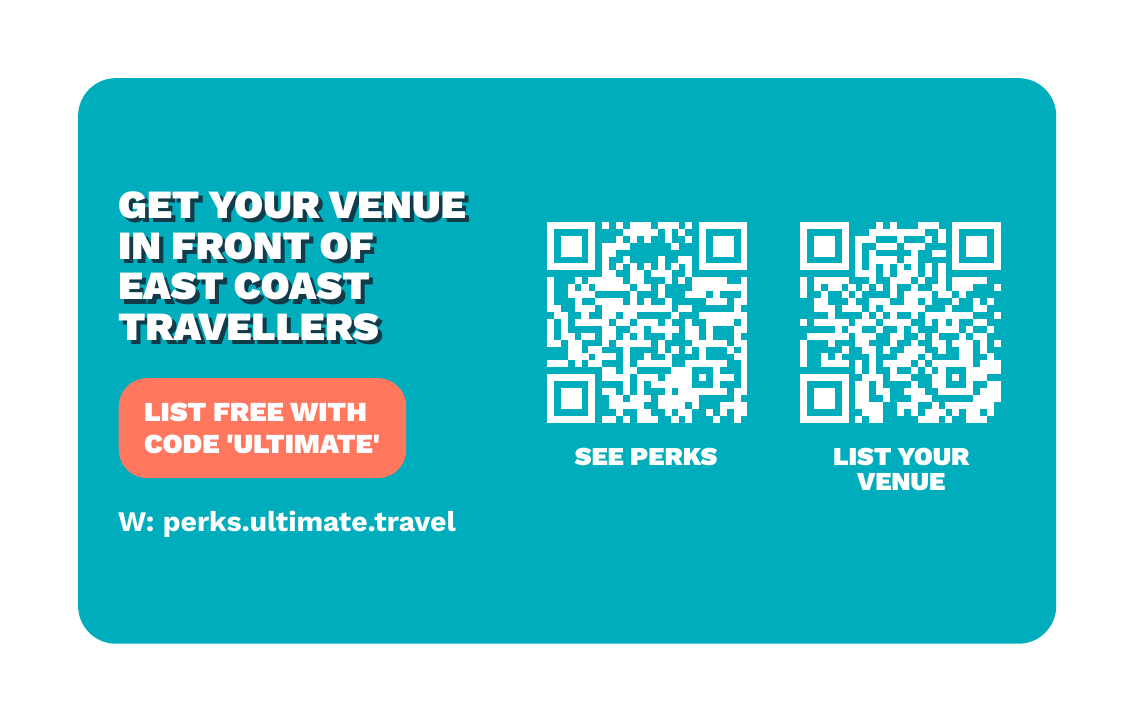
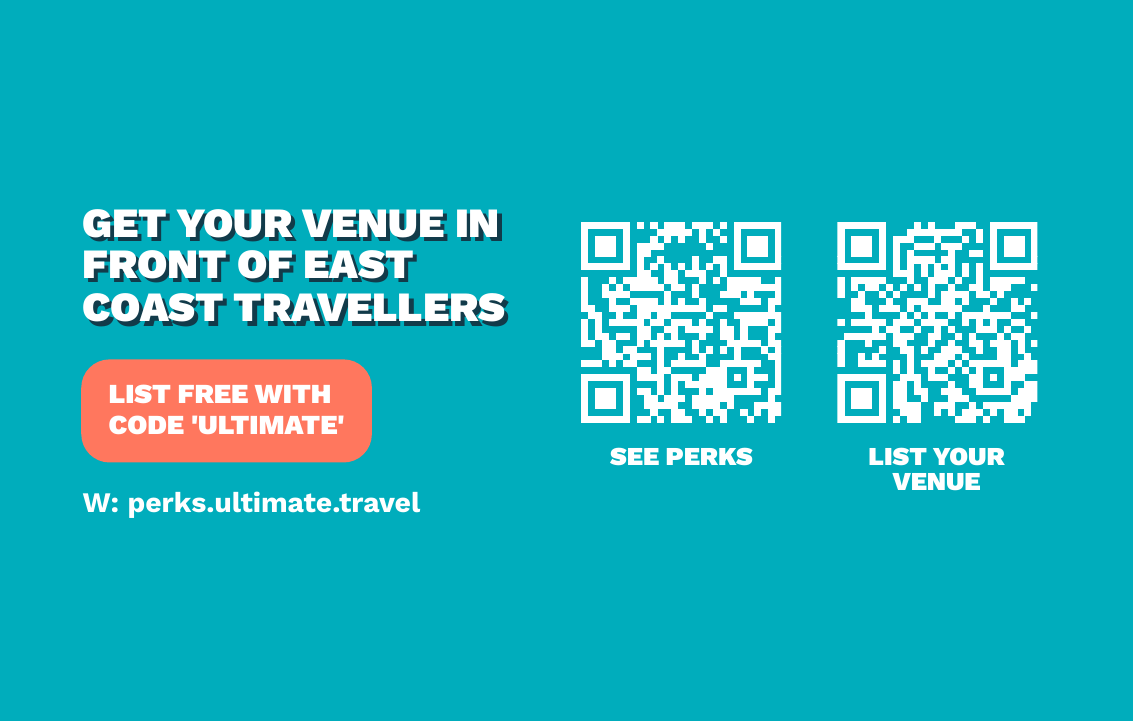
Business card back: no white border
Claude-Session: https://claude.ai/code/session_01BC81H4jyip2WtSh9eVVxw1

diff --git a/print/business-card/card.html b/print/business-card/card.html
@@ -22,11 +22,9 @@ html,body{font-family:'Work Sans',Arial,sans-serif;color:#fff;-webkit-print-colo
 .front .dots{position:absolute;right:-3mm;bottom:-3mm;width:30mm;height:30mm;border-radius:50%;background:#00ADBC}
 .front .dots b{position:absolute;left:8.5mm;top:9mm;font-weight:900;font-size:13pt;line-height:.95;text-transform:uppercase;text-align:left}
 /* // CSS NAME: card-back // */
-.back{background:#fff}
-.back .panel{position:absolute;left:6.5mm;top:6.5mm;right:6.5mm;bottom:6.5mm;background:#00ADBC;border-radius:3.2mm}
-.back .safe{left:10mm;top:10mm;right:10mm;bottom:10mm}
-.back .grid{position:absolute;inset:0;display:grid;grid-template-columns:31mm 1fr;gap:3mm;align-items:center}
-.back h2{font-weight:900;font-size:9.6pt;line-height:1.02;text-transform:uppercase;text-shadow:.35mm .35mm 0 #123B4A}
+.back{background:#00ADBC}
+.back .grid{position:absolute;inset:0;display:grid;grid-template-columns:38mm 1fr;gap:3mm;align-items:center}
+.back h2{font-weight:900;font-size:10pt;line-height:1.02;text-transform:uppercase;text-shadow:.35mm .35mm 0 #123B4A}
 .back .pill{display:inline-block;margin-top:2.6mm;background:#FF775E;color:#fff;font-weight:900;font-size:6.6pt;line-height:1.15;border-radius:2.4mm;padding:1.6mm 2.2mm;text-transform:uppercase}
 .back .url{margin-top:2.2mm;font-weight:700;font-size:6.8pt}
 .back .qrs{display:flex;gap:2.2mm;justify-content:flex-end}
@@ -45,7 +43,7 @@ html,body{font-family:'Work Sans',Arial,sans-serif;color:#fff;-webkit-print-colo
   <div class="name"></div>
   <div class="contact">E: perks@ultimate.travel<br>W: perks.ultimate.travel</div>
 </div></div>
-<div class="pg back"><div class="panel"></div><div class="safe"><div class="grid">
+<div class="pg back"><div class="safe"><div class="grid">
   <div><h2>Get your venue in front of East Coast travellers</h2><span class="pill">List free with<br>code 'ULTIMATE'</span><div class="url">W: perks.ultimate.travel</div></div>
   <div class="qrs"><div class="tile"><svg viewBox="0 0 29 29" shape-rendering="crispEdges"><g fill="#FFFFFF"><rect x="0" y="0" width="1.02" height="1.02"/><rect x="1" y="0" width="1.02" height="1.02"/><rect x="2" y="0" width="1.02" height="1.02"/><rect x="3" y="0" width="1.02" height="1.02"/><rect x="4" y="0" width="1.02" height="1.02"/><rect x="5" y="0" width="1.02" height="1.02"/><rect x="6" y="0" width="1.02" height="1.02"/><rect x="8" y="0" width="1.02" height="1.02"/><rect x="10" y="0" width="1.02" height="1.02"/><rect x="12" y="0" width="1.02" height="1.02"/><rect x="13" y="0" width="1.02" height="1.02"/><rect x="14" y="0" width="1.02" height="1.02"/><rect x="16" y="0" width="1.02" height="1.02"/><rect x="17" y="0" width="1.02" height="1.02"/><rect x="18" y="0" width="1.02" height="1.02"/><rect x="20" y="0" width="1.02" height="1.02"/><rect x="22" y="0" width="1.02" height="1.02"/><rect x="23" y="0" width="1.02" height="1.02"/><rect x="24" y="0" width="1.02" height="1.02"/><rect x="25" y="0" width="1.02" height="1.02"/><rect x="26" y="0" width="1.02" height="1.02"/><rect x="27" y="0" width="1.02" height="1.02"/><rect x="28" y="0" width="1.02" height="1.02"/><rect x="0" y="1" width="1.02" height="1.02"/><rect x="6" y="1" width="1.02" height="1.02"/><rect x="11" y="1" width="1.02" height="1.02"/><rect x="12" y="1" width="1.02" height="1.02"/><rect x="13" y="1" width="1.02" height="1.02"/><rect x="14" y="1" width="1.02" height="1.02"/><rect x="15" y="1" width="1.02" height="1.02"/><rect x="17" y="1" width="1.02" height="1.02"/><rect x="19" y="1" width="1.02" height="1.02"/><rect x="22" y="1" width="1.02" height="1.02"/><rect x="28" y="1" width="1.02" height="1.02"/><rect x="0" y="2" width="1.02" height="1.02"/><rect x="2" y="2" width="1.02" height="1.02"/><rect x="3" y="2" width="1.02" height="1.02"/><rect x="4" y="2" width="1.02" height="1.02"/><rect x="6" y="2" width="1.02" height="1.02"/><rect x="10" y="2" width="1.02" height="1.02"/><rect x="12" y="2" width="1.02" height="1.02"/><rect x="14" y="2" width="1.02" height="1.02"/><rect x="17" y="2" width="1.02" height="1.02"/><rect x="20" y="2" width="1.02" height="1.02"/><rect x="22" y="2" width="1.02" height="1.02"/><rect x="24" y="2" width="1.02" height="1.02"/><rect x="25" y="2" width="1.02" height="1.02"/><rect x="26" y="2" width="1.02" height="1.02"/><rect x="28" y="2" width="1.02" height="1.02"/><rect x="0" y="3" width="1.02" height="1.02"/><rect x="2" y="3" width="1.02" height="1.02"/><rect x="3" y="3" width="1.02" height="1.02"/><rect x="4" y="3" width="1.02" height="1.02"/><rect x="6" y="3" width="1.02" height="1.02"/><rect x="8" y="3" width="1.02" height="1.02"/><rect x="9" y="3" width="1.02" height="1.02"/><rect x="10" y="3" width="1.02" height="1.02"/><rect x="11" y="3" width="1.02" height="1.02"/><rect x="18" y="3" width="1.02" height="1.02"/><rect x="22" y="3" width="1.02" height="1.02"/><rect x="24" y="3" width="1.02" height="1.02"/><rect x="25" y="3" width="1.02" height="1.02"/><rect x="26" y="3" width="1.02" height="1.02"/><rect x="28" y="3" width="1.02" height="1.02"/><rect x="0" y="4" width="1.02" height="1.02"/><rect x="2" y="4" width="1.02" height="1.02"/><rect x="3" y="4" width="1.02" height="1.02"/><rect x="4" y="4" width="1.02" height="1.02"/><rect x="6" y="4" width="1.02" height="1.02"/><rect x="8" y="4" width="1.02" height="1.02"/><rect x="9" y="4" width="1.02" height="1.02"/><rect x="22" y="4" width="1.02" height="1.02"/><rect x="24" y="4" width="1.02" height="1.02"/><rect x="25" y="4" width="1.02" height="1.02"/><rect x="26" y="4" width="1.02" height="1.02"/><rect x="28" y="4" width="1.02" height="1.02"/><rect x="0" y="5" width="1.02" height="1.02"/><rect x="6" y="5" width="1.02" height="1.02"/><rect x="8" y="5" width="1.02" height="1.02"/><rect x="11" y="5" width="1.02" height="1.02"/><rect x="16" y="5" width="1.02" height="1.02"/><rect x="19" y="5" width="1.02" height="1.02"/><rect x="20" y="5" width="1.02" height="1.02"/><rect x="22" y="5" width="1.02" height="1.02"/><rect x="28" y="5" width="1.02" height="1.02"/><rect x="0" y="6" width="1.02" height="1.02"/><rect x="1" y="6" width="1.02" height="1.02"/><rect x="2" y="6" width="1.02" height="1.02"/><rect x="3" y="6" width="1.02" height="1.02"/><rect x="4" y="6" width="1.02" height="1.02"/><rect x="5" y="6" width="1.02" height="1.02"/><rect x="6" y="6" width="1.02" height="1.02"/><rect x="8" y="6" width="1.02" height="1.02"/><rect x="10" y="6" width="1.02" height="1.02"/><rect x="12" y="6" width="1.02" height="1.02"/><rect x="14" y="6" width="1.02" height="1.02"/><rect x="16" y="6" width="1.02" height="1.02"/><rect x="18" y="6" width="1.02" height="1.02"/><rect x="20" y="6" width="1.02" height="1.02"/><rect x="22" y="6" width="1.02" height="1.02"/><rect x="23" y="6" width="1.02" height="1.02"/><rect x="24" y="6" width="1.02" height="1.02"/><rect x="25" y="6" width="1.02" height="1.02"/><rect x="26" y="6" width="1.02" height="1.02"/><rect x="27" y="6" width="1.02" height="1.02"/><rect x="28" y="6" width="1.02" height="1.02"/><rect x="8" y="7" width="1.02" height="1.02"/><rect x="9" y="7" width="1.02" height="1.02"/><rect x="12" y="7" width="1.02" height="1.02"/><rect x="13" y="7" width="1.02" height="1.02"/><rect x="15" y="7" width="1.02" height="1.02"/><rect x="16" y="7" width="1.02" height="1.02"/><rect x="17" y="7" width="1.02" height="1.02"/><rect x="20" y="7" width="1.02" height="1.02"/><rect x="0" y="8" width="1.02" height="1.02"/><rect x="4" y="8" width="1.02" height="1.02"/><rect x="6" y="8" width="1.02" height="1.02"/><rect x="7" y="8" width="1.02" height="1.02"/><rect x="8" y="8" width="1.02" height="1.02"/><rect x="9" y="8" width="1.02" height="1.02"/><rect x="10" y="8" width="1.02" height="1.02"/><rect x="12" y="8" width="1.02" height="1.02"/><rect x="13" y="8" width="1.02" height="1.02"/><rect x="17" y="8" width="1.02" height="1.02"/><rect x="19" y="8" width="1.02" height="1.02"/><rect x="21" y="8" width="1.02" height="1.02"/><rect x="22" y="8" width="1.02" height="1.02"/><rect x="23" y="8" width="1.02" height="1.02"/><rect x="24" y="8" width="1.02" height="1.02"/><rect x="25" y="8" width="1.02" height="1.02"/><rect x="28" y="8" width="1.02" height="1.02"/><rect x="0" y="9" width="1.02" height="1.02"/><rect x="3" y="9" width="1.02" height="1.02"/><rect x="5" y="9" width="1.02" height="1.02"/><rect x="7" y="9" width="1.02" height="1.02"/><rect x="8" y="9" width="1.02" height="1.02"/><rect x="9" y="9" width="1.02" height="1.02"/><rect x="10" y="9" width="1.02" height="1.02"/><rect x="11" y="9" width="1.02" height="1.02"/><rect x="13" y="9" width="1.02" height="1.02"/><rect x="14" y="9" width="1.02" height="1.02"/><rect x="16" y="9" width="1.02" height="1.02"/><rect x="21" y="9" width="1.02" height="1.02"/><rect x="22" y="9" width="1.02" height="1.02"/><rect x="23" y="9" width="1.02" height="1.02"/><rect x="24" y="9" width="1.02" height="1.02"/><rect x="25" y="9" width="1.02" height="1.02"/><rect x="26" y="9" width="1.02" height="1.02"/><rect x="27" y="9" width="1.02" height="1.02"/><rect x="28" y="9" width="1.02" height="1.02"/><rect x="0" y="10" width="1.02" height="1.02"/><rect x="3" y="10" width="1.02" height="1.02"/><rect x="4" y="10" width="1.02" height="1.02"/><rect x="5" y="10" width="1.02" height="1.02"/><rect x="6" y="10" width="1.02" height="1.02"/><rect x="12" y="10" width="1.02" height="1.02"/><rect x="16" y="10" width="1.02" height="1.02"/><rect x="20" y="10" width="1.02" height="1.02"/><rect x="21" y="10" width="1.02" height="1.02"/><rect x="22" y="10" width="1.02" height="1.02"/><rect x="24" y="10" width="1.02" height="1.02"/><rect x="28" y="10" width="1.02" height="1.02"/><rect x="0" y="11" width="1.02" height="1.02"/><rect x="4" y="11" width="1.02" height="1.02"/><rect x="7" y="11" width="1.02" height="1.02"/><rect x="8" y="11" width="1.02" height="1.02"/><rect x="9" y="11" width="1.02" height="1.02"/><rect x="10" y="11" width="1.02" height="1.02"/><rect x="12" y="11" width="1.02" height="1.02"/><rect x="14" y="11" width="1.02" height="1.02"/><rect x="17" y="11" width="1.02" height="1.02"/><rect x="23" y="11" width="1.02" height="1.02"/><rect x="24" y="11" width="1.02" height="1.02"/><rect x="25" y="11" width="1.02" height="1.02"/><rect x="27" y="11" width="1.02" height="1.02"/><rect x="28" y="11" width="1.02" height="1.02"/><rect x="0" y="12" width="1.02" height="1.02"/><rect x="1" y="12" width="1.02" height="1.02"/><rect x="4" y="12" width="1.02" height="1.02"/><rect x="5" y="12" width="1.02" height="1.02"/><rect x="6" y="12" width="1.02" height="1.02"/><rect x="8" y="12" width="1.02" height="1.02"/><rect x="9" y="12" width="1.02" height="1.02"/><rect x="10" y="12" width="1.02" height="1.02"/><rect x="11" y="12" width="1.02" height="1.02"/><rect x="12" y="12" width="1.02" height="1.02"/><rect x="13" y="12" width="1.02" height="1.02"/><rect x="14" y="12" width="1.02" height="1.02"/><rect x="15" y="12" width="1.02" height="1.02"/><rect x="16" y="12" width="1.02" height="1.02"/><rect x="17" y="12" width="1.02" height="1.02"/><rect x="19" y="12" width="1.02" height="1.02"/><rect x="20" y="12" width="1.02" height="1.02"/><rect x="27" y="12" width="1.02" height="1.02"/><rect x="1" y="13" width="1.02" height="1.02"/><rect x="2" y="13" width="1.02" height="1.02"/><rect x="5" y="13" width="1.02" height="1.02"/><rect x="8" y="13" width="1.02" height="1.02"/><rect x="9" y="13" width="1.02" height="1.02"/><rect x="11" y="13" width="1.02" height="1.02"/><rect x="12" y="13" width="1.02" height="1.02"/><rect x="18" y="13" width="1.02" height="1.02"/><rect x="22" y="13" width="1.02" height="1.02"/><rect x="23" y="13" width="1.02" height="1.02"/><rect x="24" y="13" width="1.02" height="1.02"/><rect x="25" y="13" width="1.02" height="1.02"/><rect x="26" y="13" width="1.02" height="1.02"/><rect x="27" y="13" width="1.02" height="1.02"/><rect x="28" y="13" width="1.02" height="1.02"/><rect x="0" y="14" width="1.02" height="1.02"/><rect x="2" y="14" width="1.02" height="1.02"/><rect x="4" y="14" width="1.02" height="1.02"/><rect x="5" y="14" width="1.02" height="1.02"/><rect x="6" y="14" width="1.02" height="1.02"/><rect x="7" y="14" width="1.02" height="1.02"/><rect x="8" y="14" width="1.02" height="1.02"/><rect x="10" y="14" width="1.02" height="1.02"/><rect x="11" y="14" width="1.02" height="1.02"/><rect x="13" y="14" width="1.02" height="1.02"/><rect x="14" y="14" width="1.02" height="1.02"/><rect x="15" y="14" width="1.02" height="1.02"/><rect x="17" y="14" width="1.02" height="1.02"/><rect x="20" y="14" width="1.02" height="1.02"/><rect x="23" y="14" width="1.02" height="1.02"/><rect x="24" y="14" width="1.02" height="1.02"/><rect x="25" y="14" width="1.02" height="1.02"/><rect x="26" y="14" width="1.02" height="1.02"/><rect x="28" y="14" width="1.02" height="1.02"/><rect x="0" y="15" width="1.02" height="1.02"/><rect x="2" y="15" width="1.02" height="1.02"/><rect x="8" y="15" width="1.02" height="1.02"/><rect x="9" y="15" width="1.02" height="1.02"/><rect x="12" y="15" width="1.02" height="1.02"/><rect x="13" y="15" width="1.02" height="1.02"/><rect x="15" y="15" width="1.02" height="1.02"/><rect x="16" y="15" width="1.02" height="1.02"/><rect x="17" y="15" width="1.02" height="1.02"/><rect x="18" y="15" width="1.02" height="1.02"/><rect x="20" y="15" width="1.02" height="1.02"/><rect x="21" y="15" width="1.02" height="1.02"/><rect x="23" y="15" width="1.02" height="1.02"/><rect x="27" y="15" width="1.02" height="1.02"/><rect x="28" y="15" width="1.02" height="1.02"/><rect x="0" y="16" width="1.02" height="1.02"/><rect x="2" y="16" width="1.02" height="1.02"/><rect x="3" y="16" width="1.02" height="1.02"/><rect x="5" y="16" width="1.02" height="1.02"/><rect x="6" y="16" width="1.02" height="1.02"/><rect x="8" y="16" width="1.02" height="1.02"/><rect x="9" y="16" width="1.02" height="1.02"/><rect x="11" y="16" width="1.02" height="1.02"/><rect x="13" y="16" width="1.02" height="1.02"/><rect x="17" y="16" width="1.02" height="1.02"/><rect x="20" y="16" width="1.02" height="1.02"/><rect x="21" y="16" width="1.02" height="1.02"/><rect x="23" y="16" width="1.02" height="1.02"/><rect x="27" y="16" width="1.02" height="1.02"/><rect x="0" y="17" width="1.02" height="1.02"/><rect x="1" y="17" width="1.02" height="1.02"/><rect x="3" y="17" width="1.02" height="1.02"/><rect x="4" y="17" width="1.02" height="1.02"/><rect x="8" y="17" width="1.02" height="1.02"/><rect x="10" y="17" width="1.02" height="1.02"/><rect x="11" y="17" width="1.02" height="1.02"/><rect x="12" y="17" width="1.02" height="1.02"/><rect x="13" y="17" width="1.02" height="1.02"/><rect x="14" y="17" width="1.02" height="1.02"/><rect x="16" y="17" width="1.02" height="1.02"/><rect x="21" y="17" width="1.02" height="1.02"/><rect x="22" y="17" width="1.02" height="1.02"/><rect x="23" y="17" width="1.02" height="1.02"/><rect x="24" y="17" width="1.02" height="1.02"/><rect x="25" y="17" width="1.02" height="1.02"/><rect x="27" y="17" width="1.02" height="1.02"/><rect x="28" y="17" width="1.02" height="1.02"/><rect x="3" y="18" width="1.02" height="1.02"/><rect x="4" y="18" width="1.02" height="1.02"/><rect x="6" y="18" width="1.02" height="1.02"/><rect x="7" y="18" width="1.02" height="1.02"/><rect x="11" y="18" width="1.02" height="1.02"/><rect x="16" y="18" width="1.02" height="1.02"/><rect x="18" y="18" width="1.02" height="1.02"/><rect x="20" y="18" width="1.02" height="1.02"/><rect x="22" y="18" width="1.02" height="1.02"/><rect x="26" y="18" width="1.02" height="1.02"/><rect x="28" y="18" width="1.02" height="1.02"/><rect x="3" y="19" width="1.02" height="1.02"/><rect x="4" y="19" width="1.02" height="1.02"/><rect x="5" y="19" width="1.02" height="1.02"/><rect x="7" y="19" width="1.02" height="1.02"/><rect x="8" y="19" width="1.02" height="1.02"/><rect x="9" y="19" width="1.02" height="1.02"/><rect x="11" y="19" width="1.02" height="1.02"/><rect x="14" y="19" width="1.02" height="1.02"/><rect x="17" y="19" width="1.02" height="1.02"/><rect x="22" y="19" width="1.02" height="1.02"/><rect x="27" y="19" width="1.02" height="1.02"/><rect x="28" y="19" width="1.02" height="1.02"/><rect x="0" y="20" width="1.02" height="1.02"/><rect x="1" y="20" width="1.02" height="1.02"/><rect x="2" y="20" width="1.02" height="1.02"/><rect x="4" y="20" width="1.02" height="1.02"/><rect x="6" y="20" width="1.02" height="1.02"/><rect x="7" y="20" width="1.02" height="1.02"/><rect x="11" y="20" width="1.02" height="1.02"/><rect x="13" y="20" width="1.02" height="1.02"/><rect x="14" y="20" width="1.02" height="1.02"/><rect x="15" y="20" width="1.02" height="1.02"/><rect x="16" y="20" width="1.02" height="1.02"/><rect x="17" y="20" width="1.02" height="1.02"/><rect x="20" y="20" width="1.02" height="1.02"/><rect x="21" y="20" width="1.02" height="1.02"/><rect x="22" y="20" width="1.02" height="1.02"/><rect x="23" y="20" width="1.02" height="1.02"/><rect x="24" y="20" width="1.02" height="1.02"/><rect x="25" y="20" width="1.02" height="1.02"/><rect x="28" y="20" width="1.02" height="1.02"/><rect x="8" y="21" width="1.02" height="1.02"/><rect x="9" y="21" width="1.02" height="1.02"/><rect x="11" y="21" width="1.02" height="1.02"/><rect x="12" y="21" width="1.02" height="1.02"/><rect x="18" y="21" width="1.02" height="1.02"/><rect x="19" y="21" width="1.02" height="1.02"/><rect x="20" y="21" width="1.02" height="1.02"/><rect x="24" y="21" width="1.02" height="1.02"/><rect x="28" y="21" width="1.02" height="1.02"/><rect x="0" y="22" width="1.02" height="1.02"/><rect x="1" y="22" width="1.02" height="1.02"/><rect x="2" y="22" width="1.02" height="1.02"/><rect x="3" y="22" width="1.02" height="1.02"/><rect x="4" y="22" width="1.02" height="1.02"/><rect x="5" y="22" width="1.02" height="1.02"/><rect x="6" y="22" width="1.02" height="1.02"/><rect x="8" y="22" width="1.02" height="1.02"/><rect x="9" y="22" width="1.02" height="1.02"/><rect x="10" y="22" width="1.02" height="1.02"/><rect x="11" y="22" width="1.02" height="1.02"/><rect x="13" y="22" width="1.02" height="1.02"/><rect x="14" y="22" width="1.02" height="1.02"/><rect x="15" y="22" width="1.02" height="1.02"/><rect x="17" y="22" width="1.02" height="1.02"/><rect x="18" y="22" width="1.02" height="1.02"/><rect x="19" y="22" width="1.02" height="1.02"/><rect x="20" y="22" width="1.02" height="1.02"/><rect x="22" y="22" width="1.02" height="1.02"/><rect x="24" y="22" width="1.02" height="1.02"/><rect x="25" y="22" width="1.02" height="1.02"/><rect x="26" y="22" width="1.02" height="1.02"/><rect x="28" y="22" width="1.02" height="1.02"/><rect x="0" y="23" width="1.02" height="1.02"/><rect x="6" y="23" width="1.02" height="1.02"/><rect x="11" y="23" width="1.02" height="1.02"/><rect x="13" y="23" width="1.02" height="1.02"/><rect x="15" y="23" width="1.02" height="1.02"/><rect x="16" y="23" width="1.02" height="1.02"/><rect x="17" y="23" width="1.02" height="1.02"/><rect x="18" y="23" width="1.02" height="1.02"/><rect x="19" y="23" width="1.02" height="1.02"/><rect x="20" y="23" width="1.02" height="1.02"/><rect x="24" y="23" width="1.02" height="1.02"/><rect x="28" y="23" width="1.02" height="1.02"/><rect x="0" y="24" width="1.02" height="1.02"/><rect x="2" y="24" width="1.02" height="1.02"/><rect x="3" y="24" width="1.02" height="1.02"/><rect x="4" y="24" width="1.02" height="1.02"/><rect x="6" y="24" width="1.02" height="1.02"/><rect x="8" y="24" width="1.02" height="1.02"/><rect x="9" y="24" width="1.02" height="1.02"/><rect x="11" y="24" width="1.02" height="1.02"/><rect x="13" y="24" width="1.02" height="1.02"/><rect x="17" y="24" width="1.02" height="1.02"/><rect x="19" y="24" width="1.02" height="1.02"/><rect x="20" y="24" width="1.02" height="1.02"/><rect x="21" y="24" width="1.02" height="1.02"/><rect x="22" y="24" width="1.02" height="1.02"/><rect x="23" y="24" width="1.02" height="1.02"/><rect x="24" y="24" width="1.02" height="1.02"/><rect x="25" y="24" width="1.02" height="1.02"/><rect x="27" y="24" width="1.02" height="1.02"/><rect x="28" y="24" width="1.02" height="1.02"/><rect x="0" y="25" width="1.02" height="1.02"/><rect x="2" y="25" width="1.02" height="1.02"/><rect x="3" y="25" width="1.02" height="1.02"/><rect x="4" y="25" width="1.02" height="1.02"/><rect x="6" y="25" width="1.02" height="1.02"/><rect x="9" y="25" width="1.02" height="1.02"/><rect x="10" y="25" width="1.02" height="1.02"/><rect x="12" y="25" width="1.02" height="1.02"/><rect x="13" y="25" width="1.02" height="1.02"/><rect x="14" y="25" width="1.02" height="1.02"/><rect x="16" y="25" width="1.02" height="1.02"/><rect x="17" y="25" width="1.02" height="1.02"/><rect x="18" y="25" width="1.02" height="1.02"/><rect x="19" y="25" width="1.02" height="1.02"/><rect x="20" y="25" width="1.02" height="1.02"/><rect x="21" y="25" width="1.02" height="1.02"/><rect x="27" y="25" width="1.02" height="1.02"/><rect x="0" y="26" width="1.02" height="1.02"/><rect x="2" y="26" width="1.02" height="1.02"/><rect x="3" y="26" width="1.02" height="1.02"/><rect x="4" y="26" width="1.02" height="1.02"/><rect x="6" y="26" width="1.02" height="1.02"/><rect x="9" y="26" width="1.02" height="1.02"/><rect x="10" y="26" width="1.02" height="1.02"/><rect x="11" y="26" width="1.02" height="1.02"/><rect x="12" y="26" width="1.02" height="1.02"/><rect x="13" y="26" width="1.02" height="1.02"/><rect x="16" y="26" width="1.02" height="1.02"/><rect x="17" y="26" width="1.02" height="1.02"/><rect x="18" y="26" width="1.02" height="1.02"/><rect x="19" y="26" width="1.02" height="1.02"/><rect x="21" y="26" width="1.02" height="1.02"/><rect x="25" y="26" width="1.02" height="1.02"/><rect x="26" y="26" width="1.02" height="1.02"/><rect x="27" y="26" width="1.02" height="1.02"/><rect x="28" y="26" width="1.02" height="1.02"/><rect x="0" y="27" width="1.02" height="1.02"/><rect x="6" y="27" width="1.02" height="1.02"/><rect x="10" y="27" width="1.02" height="1.02"/><rect x="13" y="27" width="1.02" height="1.02"/><rect x="14" y="27" width="1.02" height="1.02"/><rect x="17" y="27" width="1.02" height="1.02"/><rect x="19" y="27" width="1.02" height="1.02"/><rect x="20" y="27" width="1.02" height="1.02"/><rect x="23" y="27" width="1.02" height="1.02"/><rect x="25" y="27" width="1.02" height="1.02"/><rect x="27" y="27" width="1.02" height="1.02"/><rect x="28" y="27" width="1.02" height="1.02"/><rect x="0" y="28" width="1.02" height="1.02"/><rect x="1" y="28" width="1.02" height="1.02"/><rect x="2" y="28" width="1.02" height="1.02"/><rect x="3" y="28" width="1.02" height="1.02"/><rect x="4" y="28" width="1.02" height="1.02"/><rect x="5" y="28" width="1.02" height="1.02"/><rect x="6" y="28" width="1.02" height="1.02"/><rect x="8" y="28" width="1.02" height="1.02"/><rect x="9" y="28" width="1.02" height="1.02"/><rect x="11" y="28" width="1.02" height="1.02"/><rect x="13" y="28" width="1.02" height="1.02"/><rect x="14" y="28" width="1.02" height="1.02"/><rect x="15" y="28" width="1.02" height="1.02"/><rect x="18" y="28" width="1.02" height="1.02"/><rect x="20" y="28" width="1.02" height="1.02"/><rect x="24" y="28" width="1.02" height="1.02"/><rect x="27" y="28" width="1.02" height="1.02"/></g></svg><b>See perks</b></div><div class="tile"><svg viewBox="0 0 29 29" shape-rendering="crispEdges"><g fill="#FFFFFF"><rect x="0" y="0" width="1.02" height="1.02"/><rect x="1" y="0" width="1.02" height="1.02"/><rect x="2" y="0" width="1.02" height="1.02"/><rect x="3" y="0" width="1.02" height="1.02"/><rect x="4" y="0" width="1.02" height="1.02"/><rect x="5" y="0" width="1.02" height="1.02"/><rect x="6" y="0" width="1.02" height="1.02"/><rect x="11" y="0" width="1.02" height="1.02"/><rect x="13" y="0" width="1.02" height="1.02"/><rect x="17" y="0" width="1.02" height="1.02"/><rect x="18" y="0" width="1.02" height="1.02"/><rect x="19" y="0" width="1.02" height="1.02"/><rect x="22" y="0" width="1.02" height="1.02"/><rect x="23" y="0" width="1.02" height="1.02"/><rect x="24" y="0" width="1.02" height="1.02"/><rect x="25" y="0" width="1.02" height="1.02"/><rect x="26" y="0" width="1.02" height="1.02"/><rect x="27" y="0" width="1.02" height="1.02"/><rect x="28" y="0" width="1.02" height="1.02"/><rect x="0" y="1" width="1.02" height="1.02"/><rect x="6" y="1" width="1.02" height="1.02"/><rect x="10" y="1" width="1.02" height="1.02"/><rect x="11" y="1" width="1.02" height="1.02"/><rect x="12" y="1" width="1.02" height="1.02"/><rect x="13" y="1" width="1.02" height="1.02"/><rect x="14" y="1" width="1.02" height="1.02"/><rect x="15" y="1" width="1.02" height="1.02"/><rect x="16" y="1" width="1.02" height="1.02"/><rect x="17" y="1" width="1.02" height="1.02"/><rect x="20" y="1" width="1.02" height="1.02"/><rect x="22" y="1" width="1.02" height="1.02"/><rect x="28" y="1" width="1.02" height="1.02"/><rect x="0" y="2" width="1.02" height="1.02"/><rect x="2" y="2" width="1.02" height="1.02"/><rect x="3" y="2" width="1.02" height="1.02"/><rect x="4" y="2" width="1.02" height="1.02"/><rect x="6" y="2" width="1.02" height="1.02"/><rect x="8" y="2" width="1.02" height="1.02"/><rect x="9" y="2" width="1.02" height="1.02"/><rect x="10" y="2" width="1.02" height="1.02"/><rect x="14" y="2" width="1.02" height="1.02"/><rect x="18" y="2" width="1.02" height="1.02"/><rect x="20" y="2" width="1.02" height="1.02"/><rect x="22" y="2" width="1.02" height="1.02"/><rect x="24" y="2" width="1.02" height="1.02"/><rect x="25" y="2" width="1.02" height="1.02"/><rect x="26" y="2" width="1.02" height="1.02"/><rect x="28" y="2" width="1.02" height="1.02"/><rect x="0" y="3" width="1.02" height="1.02"/><rect x="2" y="3" width="1.02" height="1.02"/><rect x="3" y="3" width="1.02" height="1.02"/><rect x="4" y="3" width="1.02" height="1.02"/><rect x="6" y="3" width="1.02" height="1.02"/><rect x="8" y="3" width="1.02" height="1.02"/><rect x="11" y="3" width="1.02" height="1.02"/><rect x="12" y="3" width="1.02" height="1.02"/><rect x="13" y="3" width="1.02" height="1.02"/><rect x="15" y="3" width="1.02" height="1.02"/><rect x="16" y="3" width="1.02" height="1.02"/><rect x="17" y="3" width="1.02" height="1.02"/><rect x="22" y="3" width="1.02" height="1.02"/><rect x="24" y="3" width="1.02" height="1.02"/><rect x="25" y="3" width="1.02" height="1.02"/><rect x="26" y="3" width="1.02" height="1.02"/><rect x="28" y="3" width="1.02" height="1.02"/><rect x="0" y="4" width="1.02" height="1.02"/><rect x="2" y="4" width="1.02" height="1.02"/><rect x="3" y="4" width="1.02" height="1.02"/><rect x="4" y="4" width="1.02" height="1.02"/><rect x="6" y="4" width="1.02" height="1.02"/><rect x="8" y="4" width="1.02" height="1.02"/><rect x="10" y="4" width="1.02" height="1.02"/><rect x="16" y="4" width="1.02" height="1.02"/><rect x="19" y="4" width="1.02" height="1.02"/><rect x="20" y="4" width="1.02" height="1.02"/><rect x="22" y="4" width="1.02" height="1.02"/><rect x="24" y="4" width="1.02" height="1.02"/><rect x="25" y="4" width="1.02" height="1.02"/><rect x="26" y="4" width="1.02" height="1.02"/><rect x="28" y="4" width="1.02" height="1.02"/><rect x="0" y="5" width="1.02" height="1.02"/><rect x="6" y="5" width="1.02" height="1.02"/><rect x="8" y="5" width="1.02" height="1.02"/><rect x="10" y="5" width="1.02" height="1.02"/><rect x="11" y="5" width="1.02" height="1.02"/><rect x="12" y="5" width="1.02" height="1.02"/><rect x="13" y="5" width="1.02" height="1.02"/><rect x="15" y="5" width="1.02" height="1.02"/><rect x="16" y="5" width="1.02" height="1.02"/><rect x="22" y="5" width="1.02" height="1.02"/><rect x="28" y="5" width="1.02" height="1.02"/><rect x="0" y="6" width="1.02" height="1.02"/><rect x="1" y="6" width="1.02" height="1.02"/><rect x="2" y="6" width="1.02" height="1.02"/><rect x="3" y="6" width="1.02" height="1.02"/><rect x="4" y="6" width="1.02" height="1.02"/><rect x="5" y="6" width="1.02" height="1.02"/><rect x="6" y="6" width="1.02" height="1.02"/><rect x="8" y="6" width="1.02" height="1.02"/><rect x="10" y="6" width="1.02" height="1.02"/><rect x="12" y="6" width="1.02" height="1.02"/><rect x="14" y="6" width="1.02" height="1.02"/><rect x="16" y="6" width="1.02" height="1.02"/><rect x="18" y="6" width="1.02" height="1.02"/><rect x="20" y="6" width="1.02" height="1.02"/><rect x="22" y="6" width="1.02" height="1.02"/><rect x="23" y="6" width="1.02" height="1.02"/><rect x="24" y="6" width="1.02" height="1.02"/><rect x="25" y="6" width="1.02" height="1.02"/><rect x="26" y="6" width="1.02" height="1.02"/><rect x="27" y="6" width="1.02" height="1.02"/><rect x="28" y="6" width="1.02" height="1.02"/><rect x="8" y="7" width="1.02" height="1.02"/><rect x="9" y="7" width="1.02" height="1.02"/><rect x="10" y="7" width="1.02" height="1.02"/><rect x="12" y="7" width="1.02" height="1.02"/><rect x="14" y="7" width="1.02" height="1.02"/><rect x="15" y="7" width="1.02" height="1.02"/><rect x="16" y="7" width="1.02" height="1.02"/><rect x="18" y="7" width="1.02" height="1.02"/><rect x="20" y="7" width="1.02" height="1.02"/><rect x="0" y="8" width="1.02" height="1.02"/><rect x="2" y="8" width="1.02" height="1.02"/><rect x="3" y="8" width="1.02" height="1.02"/><rect x="4" y="8" width="1.02" height="1.02"/><rect x="5" y="8" width="1.02" height="1.02"/><rect x="6" y="8" width="1.02" height="1.02"/><rect x="10" y="8" width="1.02" height="1.02"/><rect x="13" y="8" width="1.02" height="1.02"/><rect x="14" y="8" width="1.02" height="1.02"/><rect x="15" y="8" width="1.02" height="1.02"/><rect x="17" y="8" width="1.02" height="1.02"/><rect x="20" y="8" width="1.02" height="1.02"/><rect x="22" y="8" width="1.02" height="1.02"/><rect x="23" y="8" width="1.02" height="1.02"/><rect x="24" y="8" width="1.02" height="1.02"/><rect x="25" y="8" width="1.02" height="1.02"/><rect x="26" y="8" width="1.02" height="1.02"/><rect x="0" y="9" width="1.02" height="1.02"/><rect x="2" y="9" width="1.02" height="1.02"/><rect x="4" y="9" width="1.02" height="1.02"/><rect x="5" y="9" width="1.02" height="1.02"/><rect x="7" y="9" width="1.02" height="1.02"/><rect x="9" y="9" width="1.02" height="1.02"/><rect x="11" y="9" width="1.02" height="1.02"/><rect x="13" y="9" width="1.02" height="1.02"/><rect x="16" y="9" width="1.02" height="1.02"/><rect x="19" y="9" width="1.02" height="1.02"/><rect x="20" y="9" width="1.02" height="1.02"/><rect x="22" y="9" width="1.02" height="1.02"/><rect x="23" y="9" width="1.02" height="1.02"/><rect x="24" y="9" width="1.02" height="1.02"/><rect x="28" y="9" width="1.02" height="1.02"/><rect x="0" y="10" width="1.02" height="1.02"/><rect x="3" y="10" width="1.02" height="1.02"/><rect x="6" y="10" width="1.02" height="1.02"/><rect x="8" y="10" width="1.02" height="1.02"/><rect x="13" y="10" width="1.02" height="1.02"/><rect x="15" y="10" width="1.02" height="1.02"/><rect x="16" y="10" width="1.02" height="1.02"/><rect x="17" y="10" width="1.02" height="1.02"/><rect x="18" y="10" width="1.02" height="1.02"/><rect x="20" y="10" width="1.02" height="1.02"/><rect x="21" y="10" width="1.02" height="1.02"/><rect x="23" y="10" width="1.02" height="1.02"/><rect x="2" y="11" width="1.02" height="1.02"/><rect x="3" y="11" width="1.02" height="1.02"/><rect x="7" y="11" width="1.02" height="1.02"/><rect x="10" y="11" width="1.02" height="1.02"/><rect x="11" y="11" width="1.02" height="1.02"/><rect x="12" y="11" width="1.02" height="1.02"/><rect x="15" y="11" width="1.02" height="1.02"/><rect x="16" y="11" width="1.02" height="1.02"/><rect x="18" y="11" width="1.02" height="1.02"/><rect x="22" y="11" width="1.02" height="1.02"/><rect x="25" y="11" width="1.02" height="1.02"/><rect x="27" y="11" width="1.02" height="1.02"/><rect x="2" y="12" width="1.02" height="1.02"/><rect x="3" y="12" width="1.02" height="1.02"/><rect x="4" y="12" width="1.02" height="1.02"/><rect x="6" y="12" width="1.02" height="1.02"/><rect x="7" y="12" width="1.02" height="1.02"/><rect x="8" y="12" width="1.02" height="1.02"/><rect x="10" y="12" width="1.02" height="1.02"/><rect x="12" y="12" width="1.02" height="1.02"/><rect x="13" y="12" width="1.02" height="1.02"/><rect x="14" y="12" width="1.02" height="1.02"/><rect x="15" y="12" width="1.02" height="1.02"/><rect x="16" y="12" width="1.02" height="1.02"/><rect x="17" y="12" width="1.02" height="1.02"/><rect x="21" y="12" width="1.02" height="1.02"/><rect x="25" y="12" width="1.02" height="1.02"/><rect x="26" y="12" width="1.02" height="1.02"/><rect x="4" y="13" width="1.02" height="1.02"/><rect x="9" y="13" width="1.02" height="1.02"/><rect x="11" y="13" width="1.02" height="1.02"/><rect x="13" y="13" width="1.02" height="1.02"/><rect x="16" y="13" width="1.02" height="1.02"/><rect x="18" y="13" width="1.02" height="1.02"/><rect x="19" y="13" width="1.02" height="1.02"/><rect x="20" y="13" width="1.02" height="1.02"/><rect x="21" y="13" width="1.02" height="1.02"/><rect x="22" y="13" width="1.02" height="1.02"/><rect x="23" y="13" width="1.02" height="1.02"/><rect x="24" y="13" width="1.02" height="1.02"/><rect x="28" y="13" width="1.02" height="1.02"/><rect x="0" y="14" width="1.02" height="1.02"/><rect x="2" y="14" width="1.02" height="1.02"/><rect x="3" y="14" width="1.02" height="1.02"/><rect x="4" y="14" width="1.02" height="1.02"/><rect x="5" y="14" width="1.02" height="1.02"/><rect x="6" y="14" width="1.02" height="1.02"/><rect x="8" y="14" width="1.02" height="1.02"/><rect x="9" y="14" width="1.02" height="1.02"/><rect x="10" y="14" width="1.02" height="1.02"/><rect x="12" y="14" width="1.02" height="1.02"/><rect x="13" y="14" width="1.02" height="1.02"/><rect x="14" y="14" width="1.02" height="1.02"/><rect x="15" y="14" width="1.02" height="1.02"/><rect x="18" y="14" width="1.02" height="1.02"/><rect x="20" y="14" width="1.02" height="1.02"/><rect x="22" y="14" width="1.02" height="1.02"/><rect x="25" y="14" width="1.02" height="1.02"/><rect x="26" y="14" width="1.02" height="1.02"/><rect x="5" y="15" width="1.02" height="1.02"/><rect x="7" y="15" width="1.02" height="1.02"/><rect x="8" y="15" width="1.02" height="1.02"/><rect x="11" y="15" width="1.02" height="1.02"/><rect x="14" y="15" width="1.02" height="1.02"/><rect x="16" y="15" width="1.02" height="1.02"/><rect x="20" y="15" width="1.02" height="1.02"/><rect x="21" y="15" width="1.02" height="1.02"/><rect x="22" y="15" width="1.02" height="1.02"/><rect x="24" y="15" width="1.02" height="1.02"/><rect x="27" y="15" width="1.02" height="1.02"/><rect x="1" y="16" width="1.02" height="1.02"/><rect x="2" y="16" width="1.02" height="1.02"/><rect x="3" y="16" width="1.02" height="1.02"/><rect x="4" y="16" width="1.02" height="1.02"/><rect x="5" y="16" width="1.02" height="1.02"/><rect x="6" y="16" width="1.02" height="1.02"/><rect x="8" y="16" width="1.02" height="1.02"/><rect x="9" y="16" width="1.02" height="1.02"/><rect x="10" y="16" width="1.02" height="1.02"/><rect x="13" y="16" width="1.02" height="1.02"/><rect x="14" y="16" width="1.02" height="1.02"/><rect x="17" y="16" width="1.02" height="1.02"/><rect x="19" y="16" width="1.02" height="1.02"/><rect x="23" y="16" width="1.02" height="1.02"/><rect x="25" y="16" width="1.02" height="1.02"/><rect x="26" y="16" width="1.02" height="1.02"/><rect x="0" y="17" width="1.02" height="1.02"/><rect x="4" y="17" width="1.02" height="1.02"/><rect x="8" y="17" width="1.02" height="1.02"/><rect x="9" y="17" width="1.02" height="1.02"/><rect x="13" y="17" width="1.02" height="1.02"/><rect x="16" y="17" width="1.02" height="1.02"/><rect x="19" y="17" width="1.02" height="1.02"/><rect x="20" y="17" width="1.02" height="1.02"/><rect x="22" y="17" width="1.02" height="1.02"/><rect x="23" y="17" width="1.02" height="1.02"/><rect x="24" y="17" width="1.02" height="1.02"/><rect x="26" y="17" width="1.02" height="1.02"/><rect x="28" y="17" width="1.02" height="1.02"/><rect x="0" y="18" width="1.02" height="1.02"/><rect x="6" y="18" width="1.02" height="1.02"/><rect x="9" y="18" width="1.02" height="1.02"/><rect x="10" y="18" width="1.02" height="1.02"/><rect x="12" y="18" width="1.02" height="1.02"/><rect x="15" y="18" width="1.02" height="1.02"/><rect x="16" y="18" width="1.02" height="1.02"/><rect x="17" y="18" width="1.02" height="1.02"/><rect x="20" y="18" width="1.02" height="1.02"/><rect x="23" y="18" width="1.02" height="1.02"/><rect x="24" y="18" width="1.02" height="1.02"/><rect x="26" y="18" width="1.02" height="1.02"/><rect x="0" y="19" width="1.02" height="1.02"/><rect x="3" y="19" width="1.02" height="1.02"/><rect x="5" y="19" width="1.02" height="1.02"/><rect x="10" y="19" width="1.02" height="1.02"/><rect x="14" y="19" width="1.02" height="1.02"/><rect x="15" y="19" width="1.02" height="1.02"/><rect x="16" y="19" width="1.02" height="1.02"/><rect x="18" y="19" width="1.02" height="1.02"/><rect x="23" y="19" width="1.02" height="1.02"/><rect x="24" y="19" width="1.02" height="1.02"/><rect x="27" y="19" width="1.02" height="1.02"/><rect x="0" y="20" width="1.02" height="1.02"/><rect x="3" y="20" width="1.02" height="1.02"/><rect x="4" y="20" width="1.02" height="1.02"/><rect x="5" y="20" width="1.02" height="1.02"/><rect x="6" y="20" width="1.02" height="1.02"/><rect x="8" y="20" width="1.02" height="1.02"/><rect x="10" y="20" width="1.02" height="1.02"/><rect x="12" y="20" width="1.02" height="1.02"/><rect x="13" y="20" width="1.02" height="1.02"/><rect x="14" y="20" width="1.02" height="1.02"/><rect x="15" y="20" width="1.02" height="1.02"/><rect x="17" y="20" width="1.02" height="1.02"/><rect x="19" y="20" width="1.02" height="1.02"/><rect x="20" y="20" width="1.02" height="1.02"/><rect x="21" y="20" width="1.02" height="1.02"/><rect x="22" y="20" width="1.02" height="1.02"/><rect x="23" y="20" width="1.02" height="1.02"/><rect x="24" y="20" width="1.02" height="1.02"/><rect x="26" y="20" width="1.02" height="1.02"/><rect x="27" y="20" width="1.02" height="1.02"/><rect x="28" y="20" width="1.02" height="1.02"/><rect x="8" y="21" width="1.02" height="1.02"/><rect x="10" y="21" width="1.02" height="1.02"/><rect x="13" y="21" width="1.02" height="1.02"/><rect x="16" y="21" width="1.02" height="1.02"/><rect x="18" y="21" width="1.02" height="1.02"/><rect x="20" y="21" width="1.02" height="1.02"/><rect x="24" y="21" width="1.02" height="1.02"/><rect x="25" y="21" width="1.02" height="1.02"/><rect x="26" y="21" width="1.02" height="1.02"/><rect x="27" y="21" width="1.02" height="1.02"/><rect x="28" y="21" width="1.02" height="1.02"/><rect x="0" y="22" width="1.02" height="1.02"/><rect x="1" y="22" width="1.02" height="1.02"/><rect x="2" y="22" width="1.02" height="1.02"/><rect x="3" y="22" width="1.02" height="1.02"/><rect x="4" y="22" width="1.02" height="1.02"/><rect x="5" y="22" width="1.02" height="1.02"/><rect x="6" y="22" width="1.02" height="1.02"/><rect x="9" y="22" width="1.02" height="1.02"/><rect x="10" y="22" width="1.02" height="1.02"/><rect x="11" y="22" width="1.02" height="1.02"/><rect x="13" y="22" width="1.02" height="1.02"/><rect x="14" y="22" width="1.02" height="1.02"/><rect x="15" y="22" width="1.02" height="1.02"/><rect x="19" y="22" width="1.02" height="1.02"/><rect x="20" y="22" width="1.02" height="1.02"/><rect x="22" y="22" width="1.02" height="1.02"/><rect x="24" y="22" width="1.02" height="1.02"/><rect x="25" y="22" width="1.02" height="1.02"/><rect x="26" y="22" width="1.02" height="1.02"/><rect x="0" y="23" width="1.02" height="1.02"/><rect x="6" y="23" width="1.02" height="1.02"/><rect x="8" y="23" width="1.02" height="1.02"/><rect x="9" y="23" width="1.02" height="1.02"/><rect x="11" y="23" width="1.02" height="1.02"/><rect x="16" y="23" width="1.02" height="1.02"/><rect x="19" y="23" width="1.02" height="1.02"/><rect x="20" y="23" width="1.02" height="1.02"/><rect x="24" y="23" width="1.02" height="1.02"/><rect x="27" y="23" width="1.02" height="1.02"/><rect x="28" y="23" width="1.02" height="1.02"/><rect x="0" y="24" width="1.02" height="1.02"/><rect x="2" y="24" width="1.02" height="1.02"/><rect x="3" y="24" width="1.02" height="1.02"/><rect x="4" y="24" width="1.02" height="1.02"/><rect x="6" y="24" width="1.02" height="1.02"/><rect x="8" y="24" width="1.02" height="1.02"/><rect x="9" y="24" width="1.02" height="1.02"/><rect x="11" y="24" width="1.02" height="1.02"/><rect x="12" y="24" width="1.02" height="1.02"/><rect x="15" y="24" width="1.02" height="1.02"/><rect x="16" y="24" width="1.02" height="1.02"/><rect x="17" y="24" width="1.02" height="1.02"/><rect x="20" y="24" width="1.02" height="1.02"/><rect x="21" y="24" width="1.02" height="1.02"/><rect x="22" y="24" width="1.02" height="1.02"/><rect x="23" y="24" width="1.02" height="1.02"/><rect x="24" y="24" width="1.02" height="1.02"/><rect x="26" y="24" width="1.02" height="1.02"/><rect x="27" y="24" width="1.02" height="1.02"/><rect x="28" y="24" width="1.02" height="1.02"/><rect x="0" y="25" width="1.02" height="1.02"/><rect x="2" y="25" width="1.02" height="1.02"/><rect x="3" y="25" width="1.02" height="1.02"/><rect x="4" y="25" width="1.02" height="1.02"/><rect x="6" y="25" width="1.02" height="1.02"/><rect x="8" y="25" width="1.02" height="1.02"/><rect x="9" y="25" width="1.02" height="1.02"/><rect x="12" y="25" width="1.02" height="1.02"/><rect x="16" y="25" width="1.02" height="1.02"/><rect x="17" y="25" width="1.02" height="1.02"/><rect x="18" y="25" width="1.02" height="1.02"/><rect x="25" y="25" width="1.02" height="1.02"/><rect x="26" y="25" width="1.02" height="1.02"/><rect x="27" y="25" width="1.02" height="1.02"/><rect x="28" y="25" width="1.02" height="1.02"/><rect x="0" y="26" width="1.02" height="1.02"/><rect x="2" y="26" width="1.02" height="1.02"/><rect x="3" y="26" width="1.02" height="1.02"/><rect x="4" y="26" width="1.02" height="1.02"/><rect x="6" y="26" width="1.02" height="1.02"/><rect x="8" y="26" width="1.02" height="1.02"/><rect x="9" y="26" width="1.02" height="1.02"/><rect x="10" y="26" width="1.02" height="1.02"/><rect x="11" y="26" width="1.02" height="1.02"/><rect x="14" y="26" width="1.02" height="1.02"/><rect x="15" y="26" width="1.02" height="1.02"/><rect x="16" y="26" width="1.02" height="1.02"/><rect x="19" y="26" width="1.02" height="1.02"/><rect x="21" y="26" width="1.02" height="1.02"/><rect x="22" y="26" width="1.02" height="1.02"/><rect x="23" y="26" width="1.02" height="1.02"/><rect x="24" y="26" width="1.02" height="1.02"/><rect x="25" y="26" width="1.02" height="1.02"/><rect x="26" y="26" width="1.02" height="1.02"/><rect x="27" y="26" width="1.02" height="1.02"/><rect x="0" y="27" width="1.02" height="1.02"/><rect x="6" y="27" width="1.02" height="1.02"/><rect x="9" y="27" width="1.02" height="1.02"/><rect x="10" y="27" width="1.02" height="1.02"/><rect x="11" y="27" width="1.02" height="1.02"/><rect x="14" y="27" width="1.02" height="1.02"/><rect x="16" y="27" width="1.02" height="1.02"/><rect x="18" y="27" width="1.02" height="1.02"/><rect x="19" y="27" width="1.02" height="1.02"/><rect x="20" y="27" width="1.02" height="1.02"/><rect x="22" y="27" width="1.02" height="1.02"/><rect x="24" y="27" width="1.02" height="1.02"/><rect x="25" y="27" width="1.02" height="1.02"/><rect x="27" y="27" width="1.02" height="1.02"/><rect x="0" y="28" width="1.02" height="1.02"/><rect x="1" y="28" width="1.02" height="1.02"/><rect x="2" y="28" width="1.02" height="1.02"/><rect x="3" y="28" width="1.02" height="1.02"/><rect x="4" y="28" width="1.02" height="1.02"/><rect x="5" y="28" width="1.02" height="1.02"/><rect x="6" y="28" width="1.02" height="1.02"/><rect x="8" y="28" width="1.02" height="1.02"/><rect x="10" y="28" width="1.02" height="1.02"/><rect x="11" y="28" width="1.02" height="1.02"/><rect x="17" y="28" width="1.02" height="1.02"/><rect x="18" y="28" width="1.02" height="1.02"/><rect x="19" y="28" width="1.02" height="1.02"/><rect x="21" y="28" width="1.02" height="1.02"/><rect x="24" y="28" width="1.02" height="1.02"/><rect x="25" y="28" width="1.02" height="1.02"/><rect x="26" y="28" width="1.02" height="1.02"/></g></svg><b>List your venue</b></div></div>
 </div></div></div>

diff --git a/print/business-card/build_card.py b/print/business-card/build_card.py
@@ -43,11 +43,9 @@ html,body{{font-family:'Work Sans',Arial,sans-serif;color:#fff;-webkit-print-col
 .front .dots{{position:absolute;right:-3mm;bottom:-3mm;width:30mm;height:30mm;border-radius:50%;background:#00ADBC}}
 .front .dots b{{position:absolute;left:8.5mm;top:9mm;font-weight:900;font-size:13pt;line-height:.95;text-transform:uppercase;text-align:left}}
 /* // CSS NAME: card-back // */
-.back{{background:#fff}}
-.back .panel{{position:absolute;left:6.5mm;top:6.5mm;right:6.5mm;bottom:6.5mm;background:#00ADBC;border-radius:3.2mm}}
-.back .safe{{left:10mm;top:10mm;right:10mm;bottom:10mm}}
-.back .grid{{position:absolute;inset:0;display:grid;grid-template-columns:31mm 1fr;gap:3mm;align-items:center}}
-.back h2{{font-weight:900;font-size:9.6pt;line-height:1.02;text-transform:uppercase;text-shadow:.35mm .35mm 0 #123B4A}}
+.back{{background:#00ADBC}}
+.back .grid{{position:absolute;inset:0;display:grid;grid-template-columns:38mm 1fr;gap:3mm;align-items:center}}
+.back h2{{font-weight:900;font-size:10pt;line-height:1.02;text-transform:uppercase;text-shadow:.35mm .35mm 0 #123B4A}}
 .back .pill{{display:inline-block;margin-top:2.6mm;background:#FF775E;color:#fff;font-weight:900;font-size:6.6pt;line-height:1.15;border-radius:2.4mm;padding:1.6mm 2.2mm;text-transform:uppercase}}
 .back .url{{margin-top:2.2mm;font-weight:700;font-size:6.8pt}}
 .back .qrs{{display:flex;gap:2.2mm;justify-content:flex-end}}
@@ -63,7 +61,7 @@ html,body{{font-family:'Work Sans',Arial,sans-serif;color:#fff;-webkit-print-col
   <div class="name"></div>
   <div class="contact">E: perks@ultimate.travel<br>W: perks.ultimate.travel</div>
 </div></div>
-<div class="pg back"><div class="panel"></div><div class="safe"><div class="grid">
+<div class="pg back"><div class="safe"><div class="grid">
   <div><h2>Get your venue in front of East Coast travellers</h2><span class="pill">List free with<br>code 'ULTIMATE'</span><div class="url">W: perks.ultimate.travel</div></div>
   <div class="qrs"><div class="tile">{SEE}<b>See perks</b></div><div class="tile">{LIST}<b>List your venue</b></div></div>
 </div></div></div>
